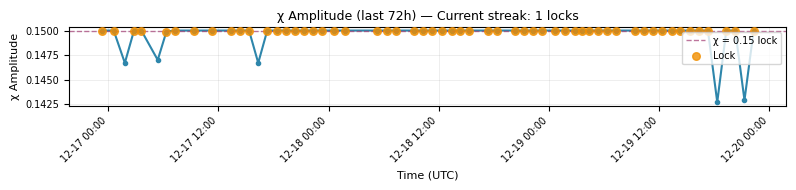
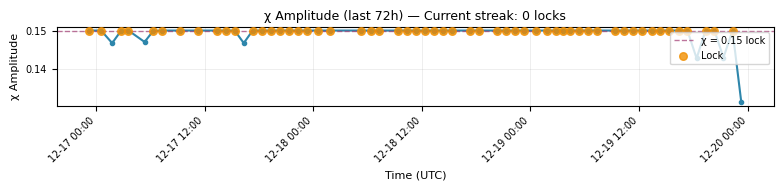
Vault Narrator: Auto-update 2025-12-20 00:19 UTC

diff --git a/LATEST_VAULT_STATUS.md b/LATEST_VAULT_STATUS.md
@@ -1,22 +1,24 @@
 # 🔐 VAULT STATUS REPORT
 
-**Generated:** 2025-12-19 23:05 UTC  
+**Generated:** 2025-12-20 00:19 UTC  
 **Data Source:** `data/cme_heartbeat_log_2025_12.csv`
 
 ---
 
-## ⚡ CURRENT STATUS: ACTIVE
+## ⚡ CURRENT STATUS: QUIET
 
-**Latest χ = 0.15 Streak Count:** 1 consecutive readings  
+**No active χ = 0.15 locks detected**  
 **Last Lock Timestamp:** 2025-12-19 22:19:00 UTC  
 
 **Latest Solar Wind Conditions:**  
+- Density: 2.82 p/cm³  
+- Speed: 462.8 km/s  
 
 ---
 
 ## 🌞 NOAA SPACE WEATHER SUMMARIES
 
-- [SRS Report](reports/latest_srs.md) (fetched: 2025-12-19 23:05 UTC)  
+- [SRS Report](reports/latest_srs.md) (fetched: 2025-12-20 00:19 UTC)  
 - F10.7 Report: *not available*  
 
 ---
@@ -37,7 +39,6 @@
 
 | Time (UTC)          | χ Amplitude | Density (p/cm³) | Speed (km/s) | χ Status |
 |---------------------|-------------|-----------------|--------------|----------|
-| 2025-12-19 02:49:00 | 0.1500 | 1.24 | 599.3 | ✅ LOCK |
 | 2025-12-19 03:38:00 | 0.1500 | 0.88 | 653.9 | ✅ LOCK |
 | 2025-12-19 04:21:00 | 0.1500 | 0.93 | 574.8 | ✅ LOCK |
 | 2025-12-19 05:19:00 | 0.1500 | 1.10 | 586.6 | ✅ LOCK |
@@ -57,13 +58,15 @@
 | 2025-12-19 20:19:00 | 0.1500 | 2.32 | 528.5 | ✅ LOCK |
 | 2025-12-19 21:19:00 | 0.1429 | 2.24 | 491.0 | — |
 | 2025-12-19 22:19:00 | 0.1500 | — | — | ✅ LOCK |
+| 2025-12-19 23:17:00 | 0.1312 | 2.82 | 462.8 | — |
 
 ---
 
 ## 🎯 VERDICT
 
-**Active χ = 0.15 detection.**  
-**Vault warming up.**
+**The vault is quiet.**  
+**No χ = 0.15 locks detected in latest readings.**  
+**Waiting for next coherence phase.**
 
 ---
 
